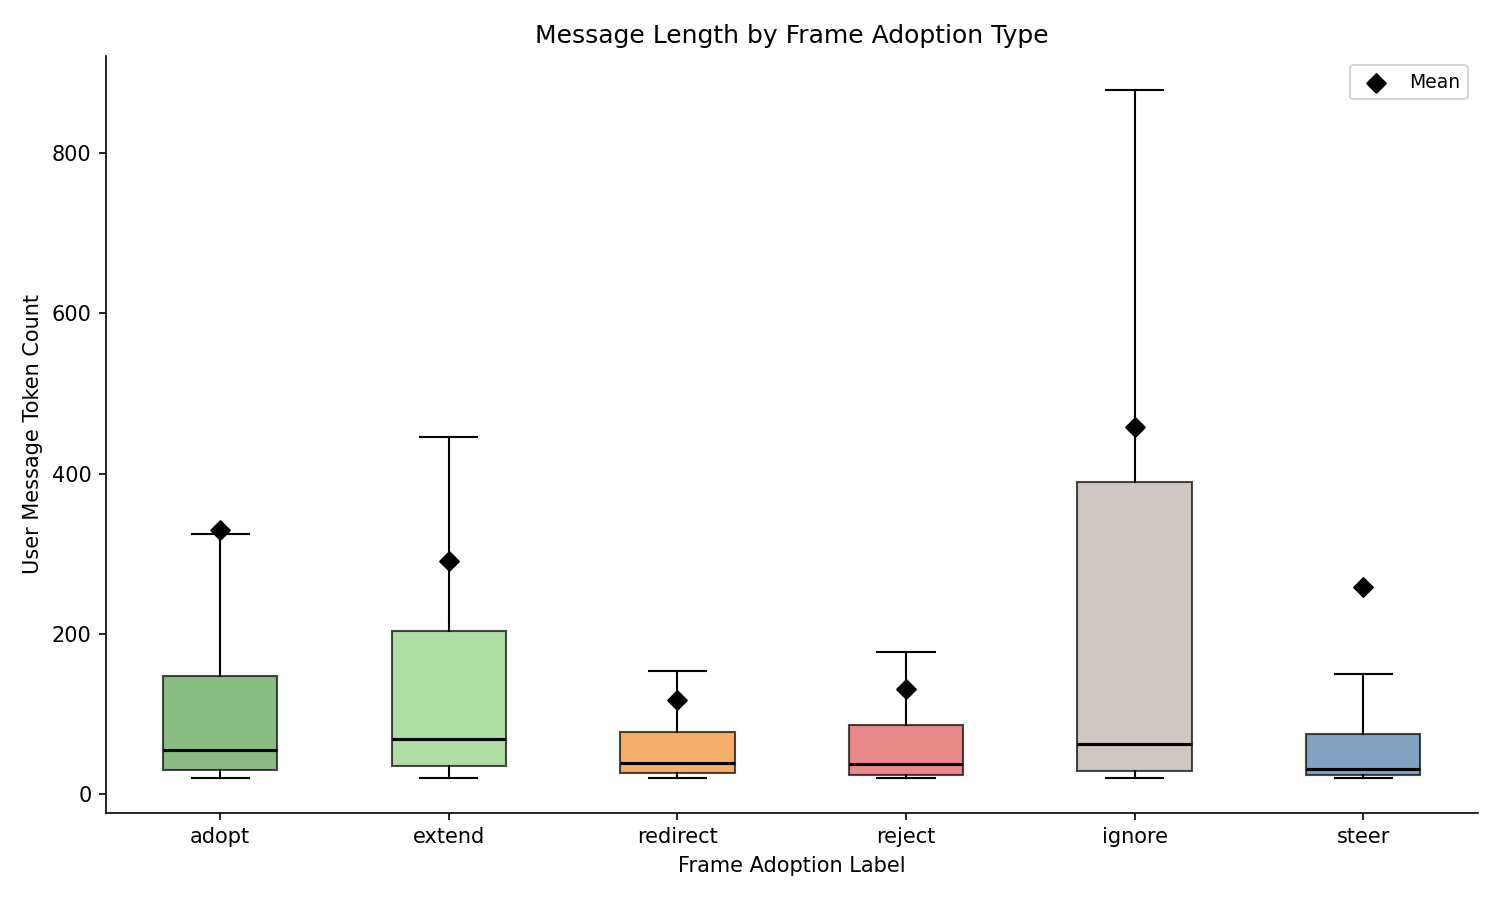
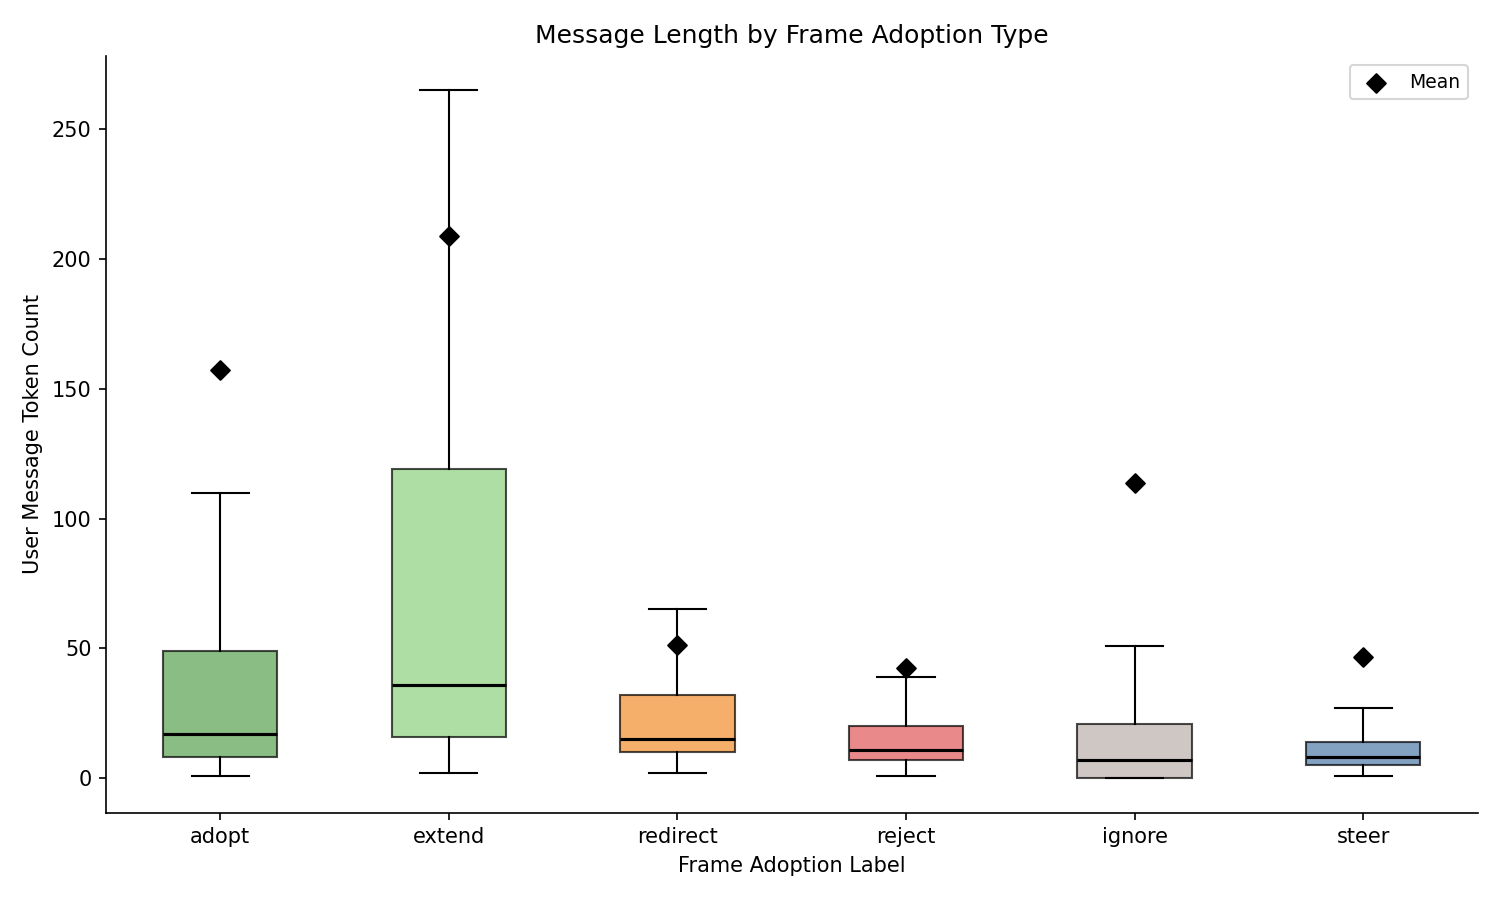
Update frame adoption charts to current run; add influence profile
Replaces two frame adoption charts that came from an earlier, smaller
classification run (6,737 messages) with the current outputs (17,827),
corrects the message-length caption, and adds an influence profile
table and monthly trend chart.

Claude-Session: https://claude.ai/code/session_017qCU7o7D6FMBadX911GzNx

diff --git a/README.md b/README.md
@@ -75,11 +75,23 @@ Conversations clustered by how normalized message length changes across each ten
 
 ![Frame adoption distribution](assets/frame_adoption_distribution.png)
 
-How each user message responds to the AI's framing in the previous turn: adopt, extend, redirect, reject, ignore, or steer. LLM-classified, excluding conversation openers.
+How each user message responds to the AI's framing in the previous turn: adopt, extend, redirect, reject, ignore, or steer. LLM-classified, excluding conversation openers (n = 17,827).
 
 ![Message length by frame adoption type](assets/frame_adoption_by_length.png)
 
-User message length by frame adoption type. Messages that ignore the AI's framing are the longest and most variable.
+User message length by frame adoption type. Replies that extend the AI's framing are the longest (median 36 tokens, mean 209). Redirect, reject, ignore, and steer replies are short (medians 7–15 tokens); the high means for adopt and ignore come from a small number of very long messages.
+
+#### Influence profile
+
+| Response pattern | Labels | Share of replies |
+|------------------|--------|------------------|
+| Follows the AI's framing | adopt + extend | 38.9% |
+| Pushes back on it | redirect + reject | 33.1% |
+| Sets own direction | steer + ignore | 27.9% |
+
+![AI frame adoption over time](assets/frame_adoption_over_time.png)
+
+The share of replies that adopt or extend the AI's framing rose over the 12 months, from 36.4% in the first six months to 45.1% in the last six (linear fit across monthly rates: +1.52 percentage points per month, p = 0.001, R² = 0.66). Two caveats: the period overlaps with several ChatGPT model upgrades, so the trend may reflect changes in the models as well as the user, and monthly volume fell from a peak of about 2,900 replies (April 2025) to under 400 (February 2026), so later months are noisier.
 
 ### Emotion × function (`25_cross_dimensional`)
 
